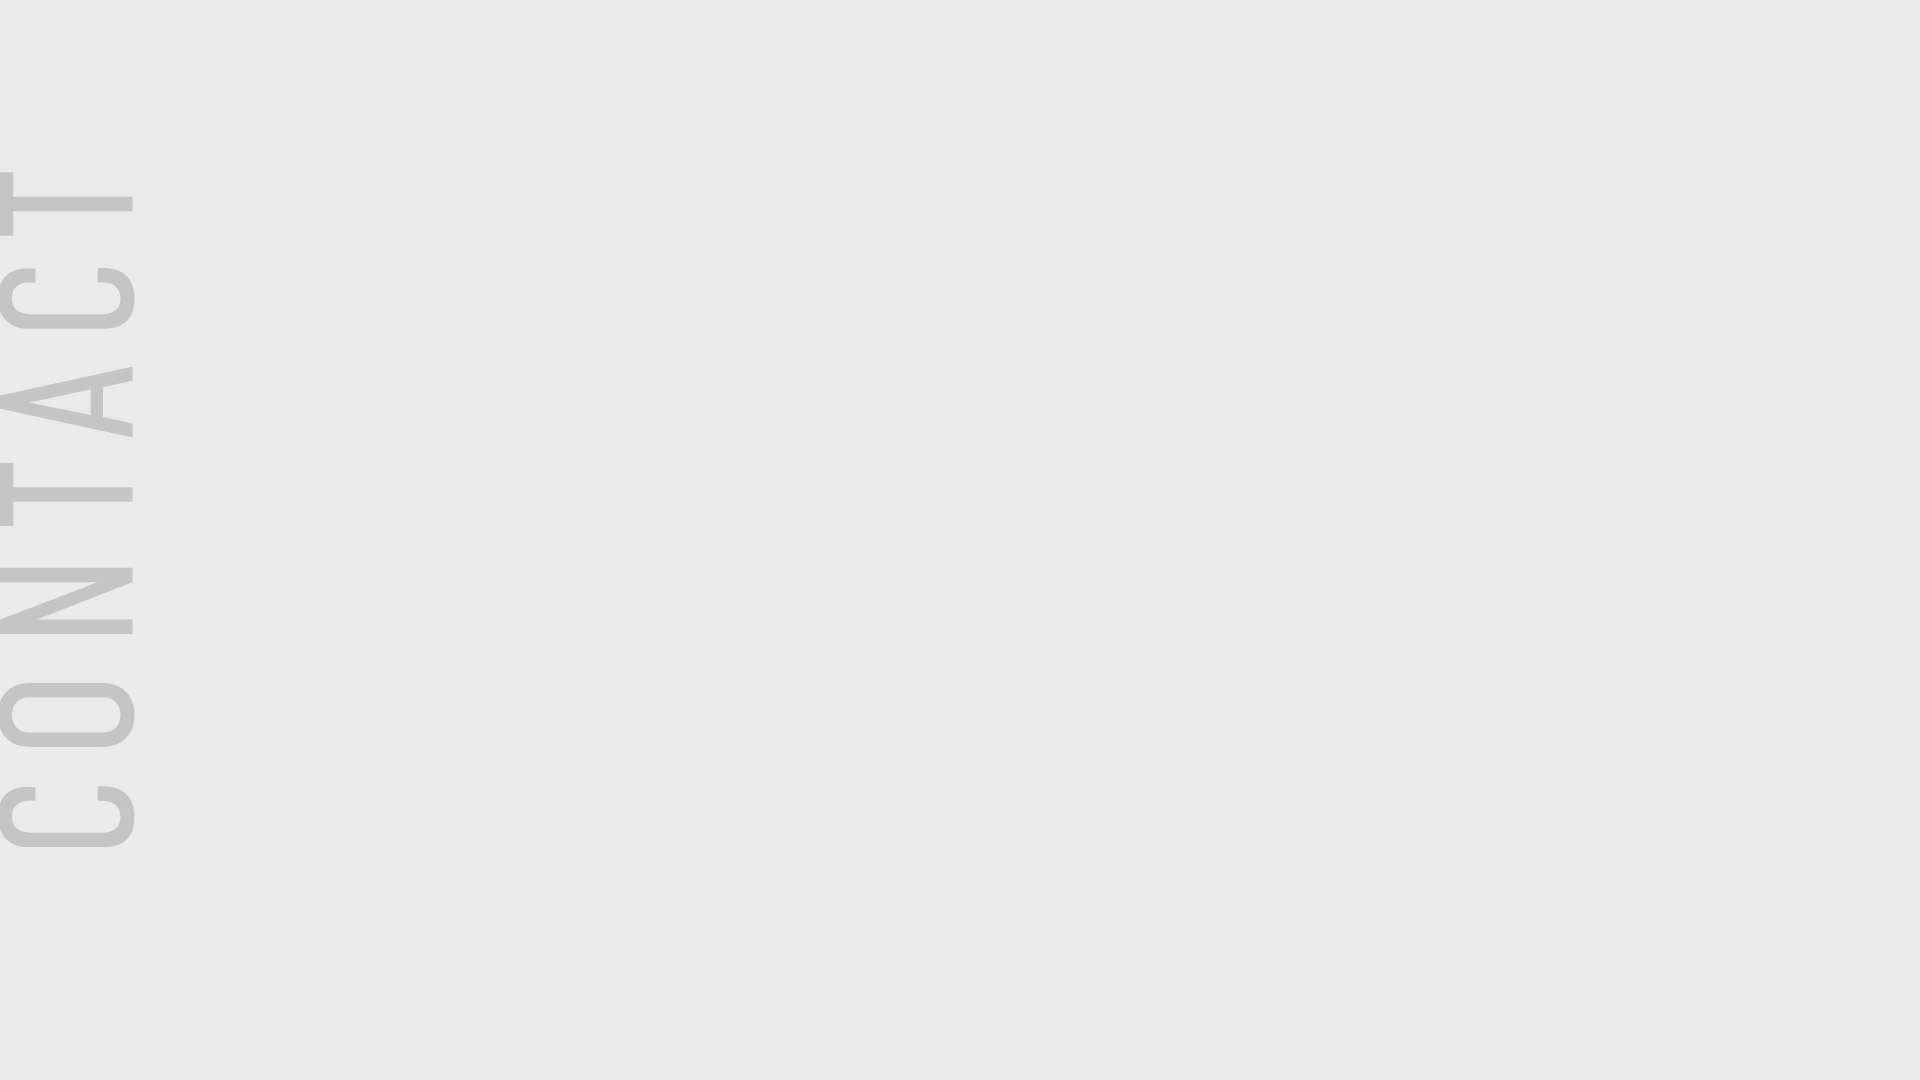
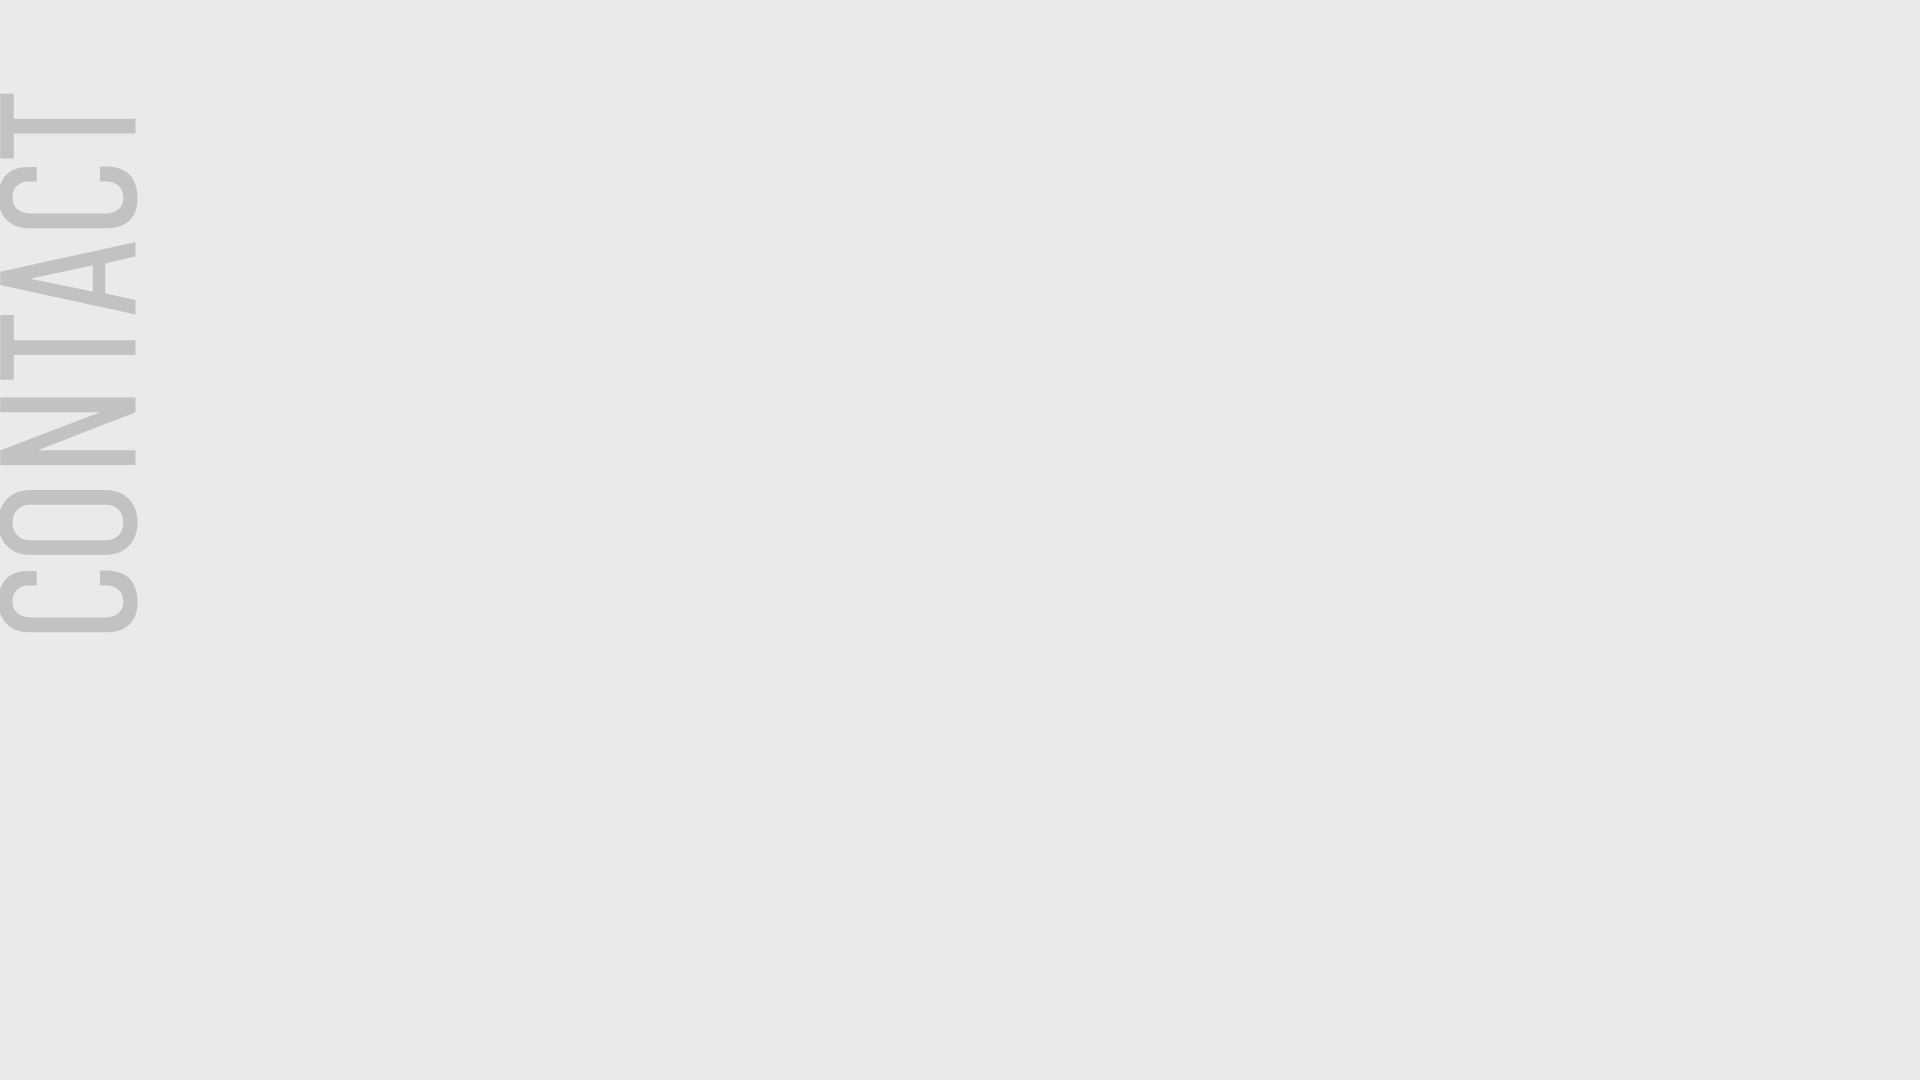
contact & thanks page complete

Changed region(s): [[0.0, 0.0917, 0.0938, 0.5806], [0.0, 0.6111, 0.0938, 0.7028], [0.0, 0.7333, 0.0938, 0.7944]]

diff --git a/css/app.css b/css/app.css
@@ -1324,7 +1324,14 @@ ANIMATION KEYFRAMES
 }
 
 
-/*CONTACT PAGE*/
+
+
+/*
+-------------------------------------------------------
+CONTACT PAGE
+-------------------------------------------------------
+*/
+
 #contactBody
 {
   background-color: #eaeaea;
@@ -1334,7 +1341,7 @@ ANIMATION KEYFRAMES
 #contactParagraph
 {
   color: #232323;
-  font-size: 36px;
+  font-size: 26px;
   letter-spacing: 3px;
   font-family: "minion-pro-condensed-display";
   font-weight: 400;
@@ -1356,17 +1363,31 @@ ANIMATION KEYFRAMES
 #nameInput
 {
   width: 200px;
+  border: 1px solid #232323;
 }
 
 #emailInput
 {
   width: 300px;
+  border: 1px solid #232323;
 }
 
 #messageInput
 {
   width: 400px;
-  height: 300px;
+  height: 200px;
+  border: 1px solid #232323;
+}
+
+#sendButton
+{
+  background-color: #eaeaea;
+  border: 1px solid #232323;
+}
+
+#sendButton:hover
+{
+  background-color: rgba(255, 255, 255, .5);
 }
 
 .streetHide
@@ -1374,6 +1395,105 @@ ANIMATION KEYFRAMES
   display: none;
 }
 
+.contactForm
+{
+}
+
+.formCenter
+{
+  display: block;
+  margin: 0 auto;
+}
+
+.contactParagraph
+{
+  margin-top: 40px;
+}
+
+.contactText
+{
+  margin-left: 40px;
+  padding-left: 50px;
+  padding-right: 50px;
+  margin-top: 100px;
+}
+
+.socialMedia
+{
+  margin-top: 40px;
+  font-size: 20px;
+  text-align: center;
+  letter-spacing: 0px;
+  font-family: din-condensed, sans-serif;
+  font-style: normal;
+  font-weight: 400;
+}
+
+.socialIcons
+{
+  width: 30px;
+  opacity: 1;
+  -webkit-transition: .5s ease-in-out;
+  -moz-transition: .5s ease-in-out;
+  -o-transition: .5s ease-in-out;
+  transition: .5s ease-in-out;
+}
+
+.socialIcons:hover
+{
+  opacity: .5;
+}
+
+#socialIconCont
+{
+  display: block;
+  margin: auto;
+  display: block;
+  margin: 0 auto;
+  width: 70px;
+}
+
+@media only screen and (max-width: 1024px)
+          {
+            .contactParagraph
+            {
+              margin-top: 50px;
+              padding: 0;
+            }
+
+            .contactForm
+            {
+              margin-left: 300px;
+              margin-top: 50px;
+              padding: 0;
+            }
+
+            .formCenter
+            {
+              padding-left: 0;
+              display: block;
+              float: left;
+            }
+          }
+@media only screen and (max-width: 640px)
+          {
+            .contactParagraph
+            {
+              margin-top: 0px;
+              padding: 0;
+            }
+
+            .contactForm
+            {
+              margin: 0 auto;
+            }
+          }
+
+/*
+-------------------------------------------------------
+THANKYOU PAGE
+-------------------------------------------------------
+*/
 
 #thanksParagraph
 {
@@ -1423,31 +1543,4 @@ ANIMATION KEYFRAMES
 #backToHome:hover
 {
   background-color: rgba(255, 255, 255, .2);
-}
-
-.contactForm
-{
-  display: block;
-  margin-left: 0px;
-}
-
-.contactParagraph
-{
-  margin-top: 40px;
-}
-
-.contactText
-{
-  margin-left: 40px;
-}
-
-.socialMedia
-{
-  margin-top: 40px;
-  font-size: 16px;
-  text-align: center;
-  letter-spacing: 2px;
-  font-family: din-condensed, sans-serif;
-  font-style: normal;
-  font-weight: 400;
 }

diff --git a/contact.php b/contact.php
@@ -59,7 +59,7 @@
   </div>-->
 
 <section class="contactParagraph row">
-  <section class="small-12 medium-6 large-8 columns">
+  <section class="small-12 medium-12 large-8 columns">
     <section class="contactText">
     <p id="contactParagraph">
       Have a cool project in mind? I'm available for freelance work - so fill out the contact form with a few details and I’ll get back to you as soon as I can!
@@ -68,23 +68,30 @@
     <p class="socialMedia">
       Follow me on Instagram for pictures of my dog, or connect with me on LinkedIn!
     </p>
+
+    <div id="socialIconCont">
+    	<a href="https://www.instagram.com/connor.clark/" target="_blank"><img src="images/instagram.svg" class="socialIcons"></a>
+    	<a href="https://www.linkedin.com/in/connor-clark-5a80ab148/" target="_blank"><img src="images/linkedIn.svg" class="socialIcons"></a>
+    </div>
     </section>
   </section>
 
 
-  <div class="small-12 medium-6 large-4 columns">
-  <form action="contact.php" method="post" class="contactForm"> 
-    <!--Make sure to give each input a name attribute(name="")-->
-       <label>Name:</label>
-       		<input id="nameInput" name="name" type="text" size="21" length="30"/>
-       <label>Email:</label>
-       		<input id="emailInput" name="email" type="text" size="21" maxlength="30" />
-       		<!--Catch Bots-->
-       <label for="street" class="streetHide">Street: </label><input name="street" type="text" size="21" maxlength="30" class="streetHide"/>
-       <label for="message">Message:</label>
-       		<textarea id="messageInput" name="message"></textarea>
-       <input name="submit" type="submit" value="Send" />
-    </form>
+  <div class="small-12 medium-12 large-4 columns">
+	  <div class="formCenter">
+	  <form action="contact.php" method="post" class="contactForm"> 
+	    <!--Make sure to give each input a name attribute(name="")-->
+	       <label>Name:</label>
+	       		<input id="nameInput" name="name" type="text" size="21" length="30"/>
+	       <label>Email:</label>
+	       		<input id="emailInput" name="email" type="text" size="21" maxlength="30" />
+	       		<!--Catch Bots-->
+	       <label for="street" class="streetHide">Street: </label><input name="street" type="text" size="21" maxlength="30" class="streetHide"/>
+	       <label for="message">Message:</label>
+	       		<textarea id="messageInput" name="message"></textarea>
+	       <input id="sendButton" name="submit" type="submit" value="Send" />
+	    </form>
+	    </div>
     </div>
 
     <script src="js/vendor/jquery.min.js"></script>
